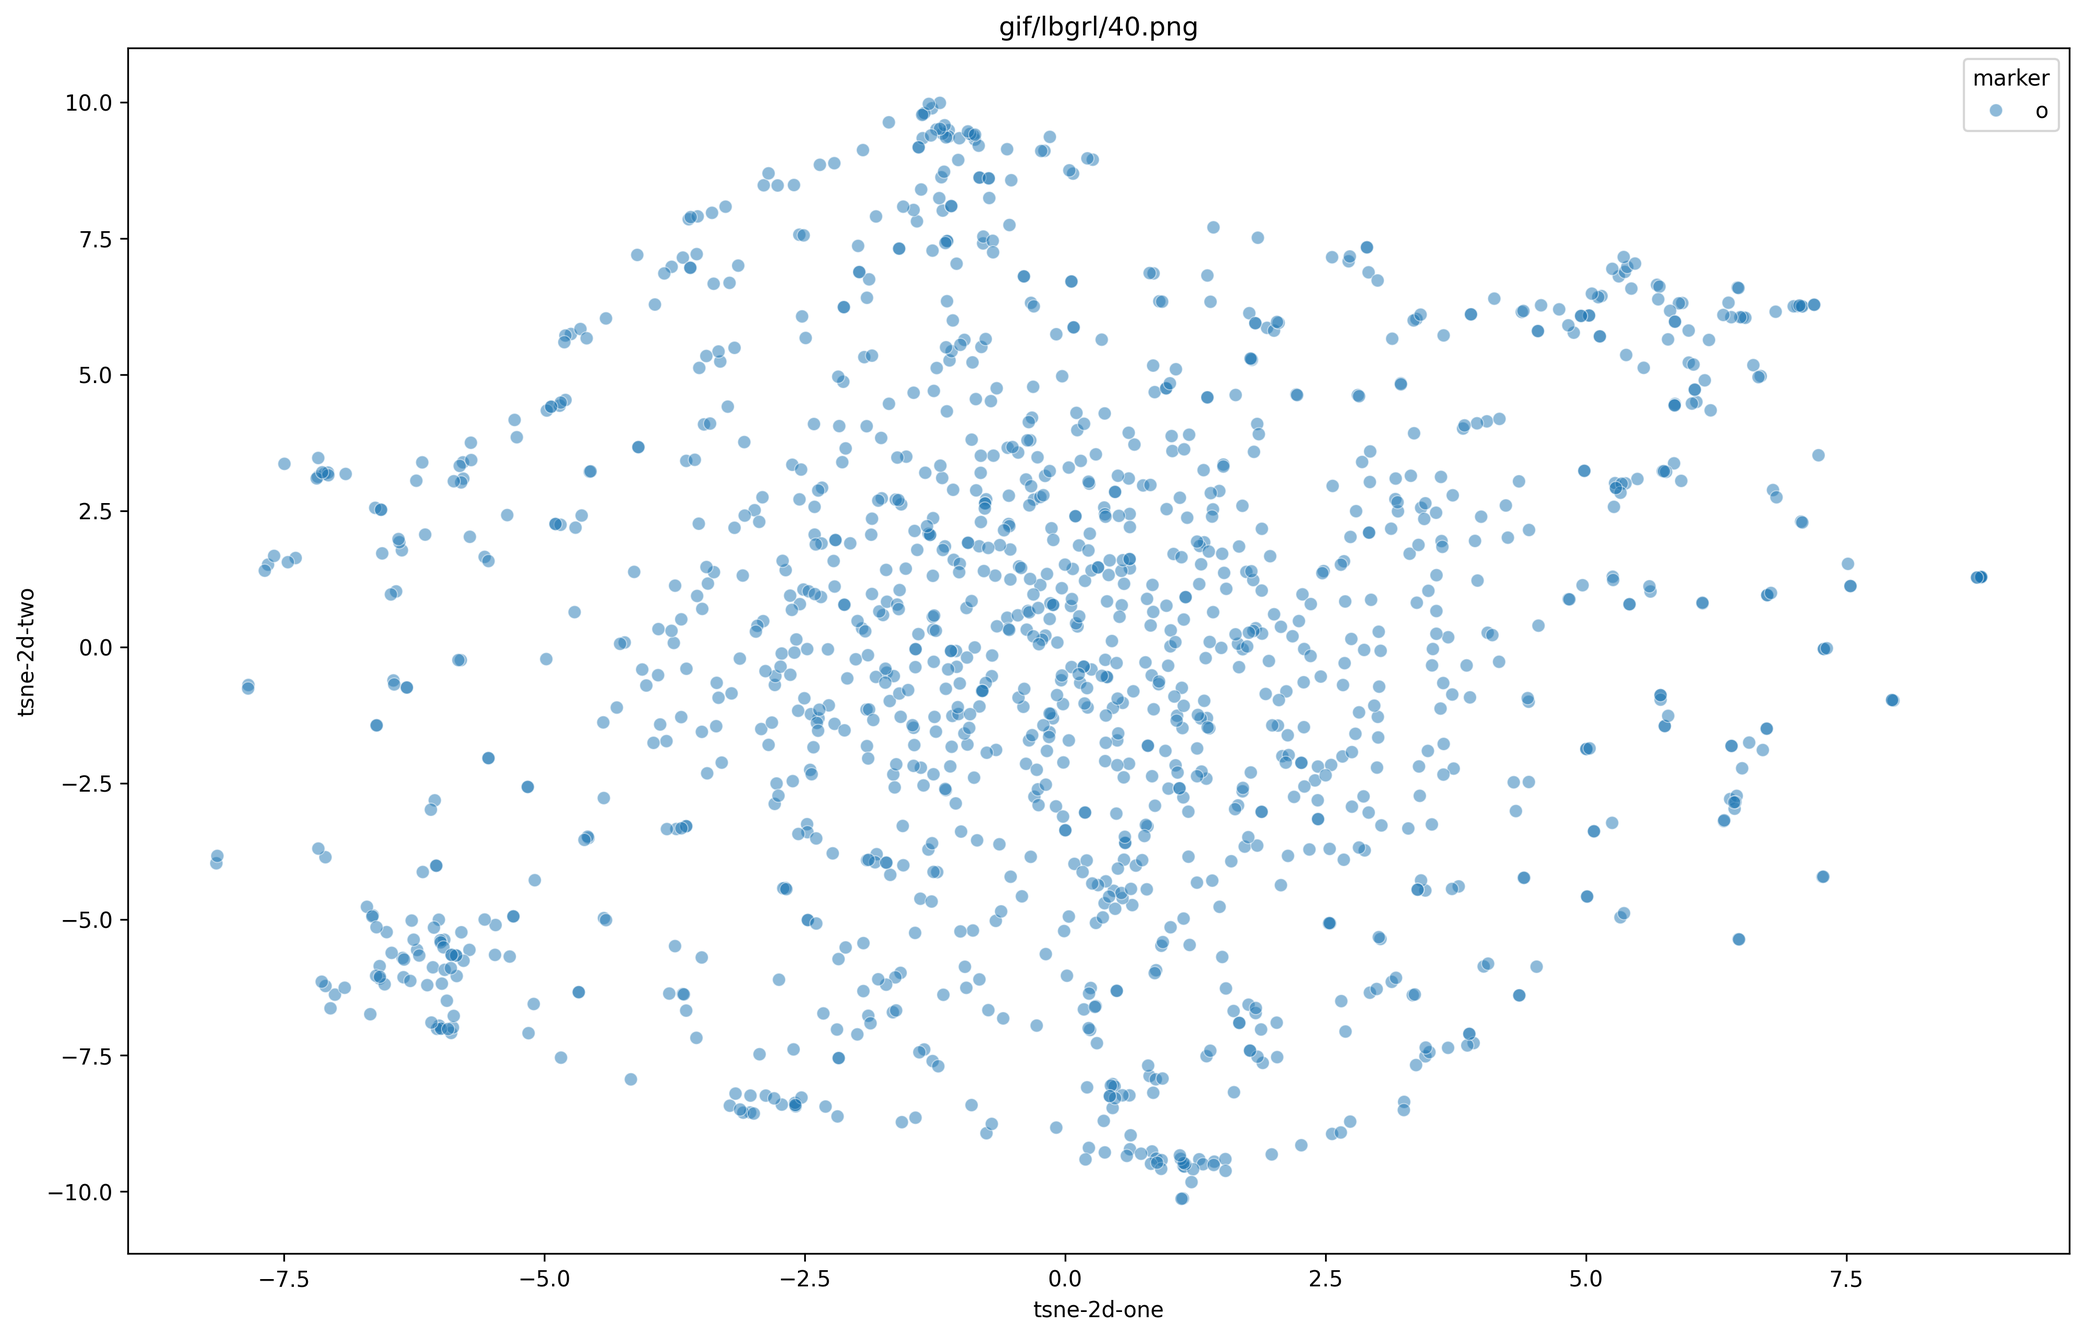
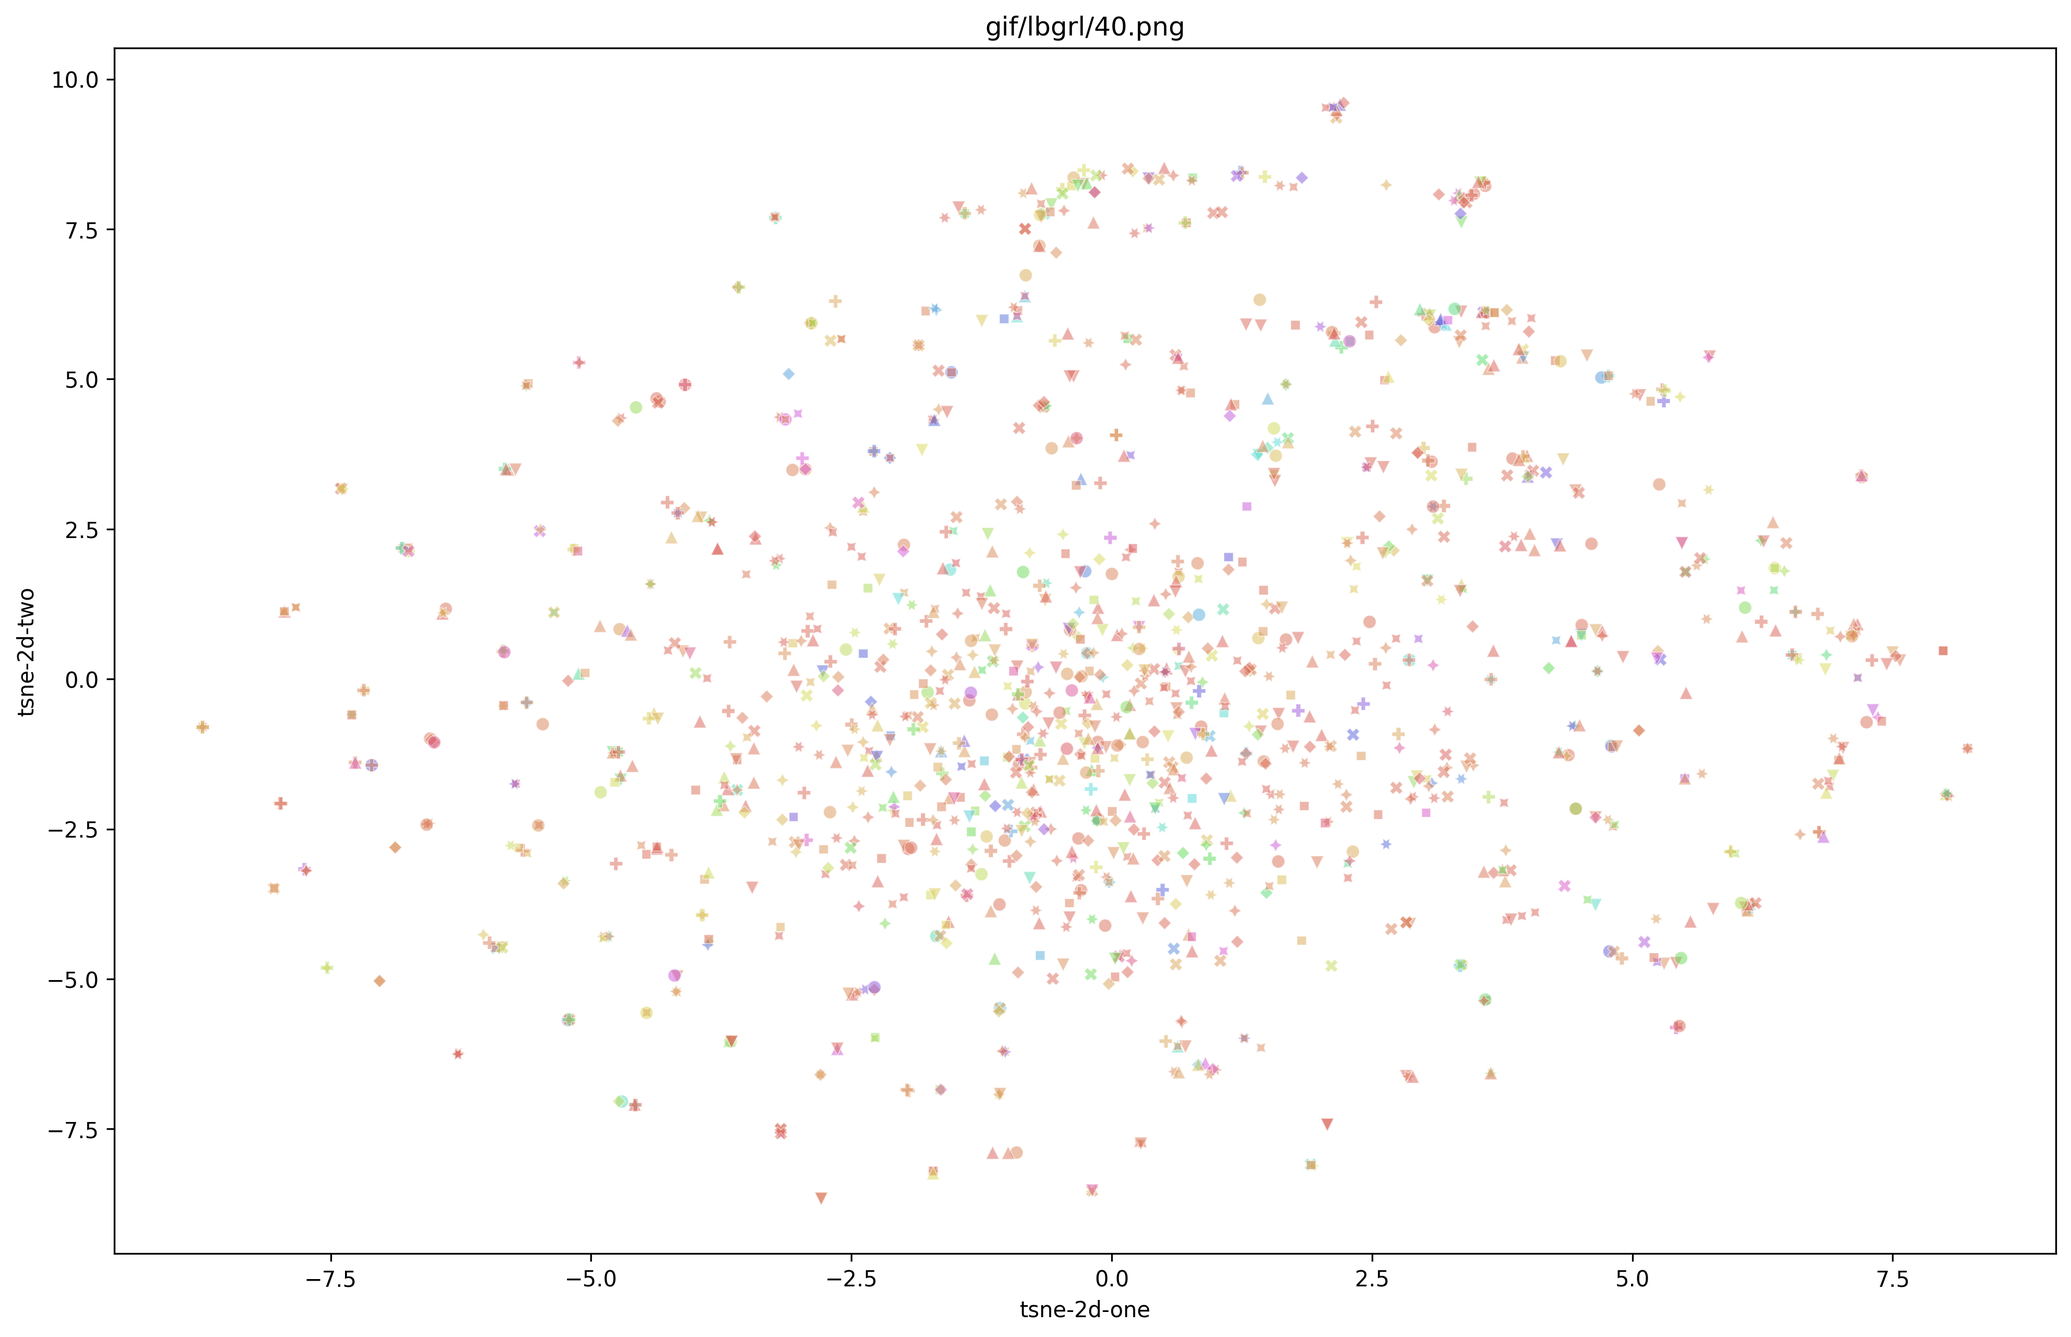
up

diff --git a/New/src/ctrain.py b/New/src/ctrain.py
@@ -1,15 +1,13 @@
 import time
 from tqdm import tqdm
 import torch
-from torch_geometric.utils import negative_sampling, to_networkx, degree, to_edge_index, to_dense_adj, add_self_loops, remove_self_loops
+from torch_geometric.utils import negative_sampling, to_networkx
 from torch_geometric.data import Data
-from torch_sparse import SparseTensor
-from torch.utils.tensorboard import SummaryWriter
 import torch_sparse as spar
-import numpy as np
 import networkx as nx
-from src.utils import CosineDecayScheduler, visu_tsne
-from src.utils import get_commu_strength
+from torch.utils.tensorboard import SummaryWriter
+import numpy as np
+from src.utils import CosineDecayScheduler, get_commu_strength, commu_repartition, visu_tsne
 
 writer = SummaryWriter()
 ### CONTRASTIVE FRAMEWORK ###
@@ -17,18 +15,18 @@ writer = SummaryWriter()
 def pretrain(model_name, model, aug, param):
     switch = {"grace": pretrain_grace,
               "lgrace": pretrain_lgrace,
-              "agrace": pretrain_agrace,
-              "ândgrace":pretrain_and_grace,
-              "âorgrace": pretrain_aor_grace,
-              "extagrace": pretrain_extend_agrace,
-              "a2grace": pretrain_a2grace,
               "csgcl": pretrain_csgcl,
               "bgrl": pretrain_bgrl,
               "lbgrl": pretrain_lbgrl,
-              "abgrl": pretrain_abgrl,
-              "âorbgrl": pretrain_or_bgrl,
-              "extabgrl": pretrain_extend_abgrl,
-              "a2bgrl": pretrain_a2bgrl,
+            #   "agrace": pretrain_agrace,
+            #   "ândgrace":pretrain_and_grace,
+            #   "âorgrace": pretrain_aor_grace,
+            #   "extagrace": pretrain_extend_agrace,
+            #   "a2grace": pretrain_a2grace,
+            #   "abgrl": pretrain_abgrl,
+            #   "âorbgrl": pretrain_or_bgrl,
+            #   "extabgrl": pretrain_extend_abgrl,
+            #   "a2bgrl": pretrain_a2bgrl,
               }
     return switch[model_name](model, aug, param)
 
@@ -54,18 +52,23 @@ def pretrain_grace(model, aug, param):
         if epoch % 100 == 0:
             loss_res.append(round(float(loss), 2))
         # valid part
-        # with torch.no_grad():
-        #     model.eval()
-        #     aug.eval()
-        #     x_1, edge_index_1, x_2, edge_index_2 = aug()
-        #     z1 = model(x_1, edge_index_1)
-        #     z2 = model(x_2, edge_index_2)
-        #     h = model(aug.data.x, aug.data.edge_index)
-        #     val_loss = model.loss(z1, z2)
-        # writer.add_scalars("grace", {'train':loss, 'val': val_loss}, epoch)
+        with torch.no_grad():
+            model.eval()
+            aug.eval()
+            x_1, edge_index_1, x_2, edge_index_2 = aug()
+            z1 = model(x_1, edge_index_1)
+            z2 = model(x_2, edge_index_2)
+            h = model(aug.data.x, aug.data.edge_index)
+            val_loss = model.loss(z1, z2)
+        writer.add_scalars("grace", {'train':loss, 'val': val_loss}, epoch)
 
-    #     name = f'gif/grace/{epoch}.png'
-    #     visu_tsne(h, name=name)
+        # if epoch % 10 == 0:
+        #     name = f'gif/grace/{epoch}.png'
+        #     if not hasattr(aug.data, 'communities'):
+        #         data = commu_repartition(aug.data, 'louvain')
+        #     else:
+        #         data = aug.data
+        #     visu_tsne(h, partition=data.communities, name=name)
     print('pretrain loss: ', loss_res)
     pre_time = time.time()-t1
     print(f"pretrain time: {pre_time:.2f} s")
@@ -107,35 +110,40 @@ def pretrain_lgrace(model, aug, param):
         loss.backward()
         optimizer.step()
         total_loss.append(loss)
-        if epoch % 10 == 0:
+        if epoch % 100 == 0:
             _loss = np.average([_.item() for _ in total_loss])
             loss_res.append(round(float(_loss), 2))
         
         # valid part
-        # with torch.no_grad():
-        #     model.eval()
-        #     aug.eval()
-        #     x_1, edge_index_1, x_2, edge_index_2 = aug()
-        #     edge_index_1 = edge_index_1.T
-        #     edge_index_2 = edge_index_2.T
-        #     eq = torch.eq(edge_index_1[:, None], edge_index_2[None, :]).all(dim=2)
-        #     intersection_idx = torch.nonzero(eq)
-        #     and_edge_index = edge_index_1[intersection_idx[:, 0]].T
-        #     or_edge_index = torch.unique(torch.cat((edge_index_1, edge_index_2)), dim=0).T
-        #     edge_index_1 = edge_index_1.T
-        #     edge_index_2 = edge_index_2.T
-        #     if and_edge_index.size(1) == 0:
-        #         nb_jump += 1
-        #         continue
-        #     neg_edge = negative_sampling(or_edge_index, num_neg_samples=and_edge_index.size(1))
-        #     h1 = model(x_1, edge_index_1).to(aug.device)
-        #     h2 = model(x_2, edge_index_2).to(aug.device)
-        #     h = model(aug.data.x, aug.data.edge_index)
-        #     val_loss = model.loss(h1, h2, and_edge_index, neg_edge)
-        # writer.add_scalars("lgrace", {'train':loss, 'val': val_loss}, epoch)
-        
-    #     name = f'gif/lgrace/{epoch}.png'
-    #     visu_tsne(h, name=name)
+        with torch.no_grad():
+            model.eval()
+            aug.eval()
+            x_1, edge_index_1, x_2, edge_index_2 = aug()
+            edge_index_1 = edge_index_1.T
+            edge_index_2 = edge_index_2.T
+            eq = torch.eq(edge_index_1[:, None], edge_index_2[None, :]).all(dim=2)
+            intersection_idx = torch.nonzero(eq)
+            and_edge_index = edge_index_1[intersection_idx[:, 0]].T
+            or_edge_index = torch.unique(torch.cat((edge_index_1, edge_index_2)), dim=0).T
+            edge_index_1 = edge_index_1.T
+            edge_index_2 = edge_index_2.T
+            if and_edge_index.size(1) == 0:
+                nb_jump += 1
+                continue
+            neg_edge = negative_sampling(or_edge_index, num_neg_samples=and_edge_index.size(1))
+            h1 = model(x_1, edge_index_1).to(aug.device)
+            h2 = model(x_2, edge_index_2).to(aug.device)
+            h = model(aug.data.x, aug.data.edge_index)
+            val_loss = model.loss(h1, h2, and_edge_index, neg_edge)
+        writer.add_scalars("lgrace", {'train':loss, 'val': val_loss}, epoch)
+
+        # if epoch % 10 == 0:
+        #     name = f'gif/lgrace/{epoch}.png'
+        #     if not hasattr(aug.data, 'communities'):
+        #         data = commu_repartition(aug.data, 'louvain')
+        #     else:
+        #         data = aug.data
+        #     visu_tsne(h, partition=data.communities, name=name)
     print('real epochs: ', param['ct_epochs']-nb_jump)
     print('pretrain loss: ', loss_res)
     pre_time = time.time()-t1
@@ -203,19 +211,24 @@ def pretrain_bgrl(model, aug, param):
         if epoch % 100 == 0:
             loss_res.append(round(float(loss), 2))
         # valid part
-        # with torch.no_grad():
-        #     model.eval()
-        #     aug.eval()
-        #     x_1, edge_index_1, x_2, edge_index_2 = aug()
-        #     z1, y2 = model.train_forward((x_1, edge_index_1), (x_2, edge_index_2))
-        #     z2, y1 = model.train_forward((x_2, edge_index_2), (x_1, edge_index_1))
+        with torch.no_grad():
+            model.eval()
+            aug.eval()
+            x_1, edge_index_1, x_2, edge_index_2 = aug()
+            z1, y2 = model.train_forward((x_1, edge_index_1), (x_2, edge_index_2))
+            z2, y1 = model.train_forward((x_2, edge_index_2), (x_1, edge_index_1))
 
-        #     h = model(aug.data.x, aug.data.edge_index)
-        #     val_loss = model.loss(z1, z2, y1, y2)
-        # writer.add_scalars("bgrl", {'train':loss, 'val': val_loss}, epoch)
-                
-    #     name = f'gif/bgrl/{epoch}.png'
-    #     visu_tsne(h, name=name)
+            h = model(aug.data.x, aug.data.edge_index)
+            val_loss = model.loss(z1, z2, y1, y2)
+        writer.add_scalars("bgrl", {'train':loss, 'val': val_loss}, epoch)
+
+        # if epoch % 10 == 0:         
+        #     name = f'gif/bgrl/{epoch}.png'
+        #     if not hasattr(aug.data, 'communities'):
+        #         data = commu_repartition(aug.data, 'louvain')
+        #     else:
+        #         data = aug.data
+        #     visu_tsne(h, partition=data.communities, name=name)
     print('pretrain loss: ', loss_res, ' s')
     pre_time = time.time()-t1
     print(f"pretrain time: {pre_time:.2f} s")
@@ -266,29 +279,36 @@ def pretrain_lbgrl(model, aug, param):
         if epoch % 100 == 0:
             loss_res.append(round(float(loss), 2))
         # valid part
-        # with torch.no_grad():
-        #     model.eval()
-        #     aug.eval()
-        #     x_1, edge_index_1, x_2, edge_index_2 = aug()
-        #     edge_index_1 = edge_index_1.T
-        #     edge_index_2 = edge_index_2.T
-        #     eq = torch.eq(edge_index_1[:, None], edge_index_2[None, :]).all(dim=2)
-        #     intersection_idx = torch.nonzero(eq)
-        #     and_edge_index = edge_index_1[intersection_idx[:, 0]].T
-        #     edge_index_1 = edge_index_1.T
-        #     edge_index_2 = edge_index_2.T
-        #     if and_edge_index.size(1) == 0:
-        #         nb_jump += 1
-        #         continue
-        #     z1, y2 = model.train_forward((x_1, edge_index_1), (x_2, edge_index_2), and_edge_index)
-        #     z2, y1 = model.train_forward((x_2, edge_index_2), (x_1, edge_index_1), and_edge_index)
+        with torch.no_grad():
+            model.eval()
+            aug.eval()
+            x_1, edge_index_1, x_2, edge_index_2 = aug()
+            edge_index_1 = edge_index_1.T
+            edge_index_2 = edge_index_2.T
+            eq = torch.eq(edge_index_1[:, None], edge_index_2[None, :]).all(dim=2)
+            intersection_idx = torch.nonzero(eq)
+            and_edge_index = edge_index_1[intersection_idx[:, 0]].T
+            edge_index_1 = edge_index_1.T
+            edge_index_2 = edge_index_2.T
+            if and_edge_index.size(1) == 0:
+                nb_jump += 1
+                continue
+            z1, y2 = model.train_forward((x_1, edge_index_1), (x_2, edge_index_2), and_edge_index)
+            z2, y1 = model.train_forward((x_2, edge_index_2), (x_1, edge_index_1), and_edge_index)
 
-        #     h = model(aug.data.x, aug.data.edge_index)
-        #     val_loss = model.loss(z1, z2, y1, y2)
-        # writer.add_scalars("lbgrl", {'train':loss, 'val': val_loss}, epoch)
-                
-    #     name = f'gif/lbgrl/{epoch}.png'
-    #     visu_tsne(h, name=name)
+            h = model(aug.data.x, aug.data.edge_index)
+            val_loss = model.loss(z1, z2, y1, y2)
+        writer.add_scalars("lbgrl", {'train':loss, 'val': val_loss}, epoch)
+
+        # print('before visu')
+        # if epoch % 10 == 0:
+        #     print('visu')
+        #     name = f'gif/lbgrl/{epoch}.png'
+        #     if not hasattr(aug.data, 'communities'):
+        #         data = commu_repartition(aug.data, 'louvain')
+        #     else:
+        #         data = aug.data
+        #     visu_tsne(h, partition=data.communities, name=name)
     print('real epochs: ', param['ct_epochs']-nb_jump)
     print('pretrain loss: ', loss_res, ' s')
     pre_time = time.time()-t1
@@ -310,7 +330,7 @@ def pretrain_agrace(model, aug, param):
         aug.train()
         optimizer.zero_grad()
         x_1, edge_index_1, x_2, edge_index_2 = aug()
-        adj_t = SparseTensor.from_edge_index(edge_index_1, sparse_sizes=(aug.data.num_nodes, aug.data.num_nodes))
+        adj_t = spar.SparseTensor.from_edge_index(edge_index_1, sparse_sizes=(aug.data.num_nodes, aug.data.num_nodes))
         adj_t = adj_t.to_symmetric().coalesce()
         A_hat = adj_t.to_dense()+torch.eye(aug.data.x.shape[0]).to(aug.device)
         z1 = model(x_1, edge_index_1)
@@ -341,8 +361,8 @@ def pretrain_aor_grace(model, aug, param):
         aug.train()
         optimizer.zero_grad()
         x_1, edge_index_1, x_2, edge_index_2 = aug()
-        adj_1 = SparseTensor.from_edge_index(edge_index_1, sparse_sizes=(aug.data.num_nodes, aug.data.num_nodes)).to_torch_sparse_coo_tensor().coalesce()
-        adj_2 = SparseTensor.from_edge_index(edge_index_2, sparse_sizes=(aug.data.num_nodes, aug.data.num_nodes)).to_torch_sparse_coo_tensor().coalesce()
+        adj_1 = spar.SparseTensor.from_edge_index(edge_index_1, sparse_sizes=(aug.data.num_nodes, aug.data.num_nodes)).to_torch_sparse_coo_tensor().coalesce()
+        adj_2 = spar.SparseTensor.from_edge_index(edge_index_2, sparse_sizes=(aug.data.num_nodes, aug.data.num_nodes)).to_torch_sparse_coo_tensor().coalesce()
         hat_indices, hat_values = spar.eye(aug.data.x.shape[0])
         A_indices = torch.cat([adj_1.indices(), adj_2.indices(), hat_indices.to(aug.device)], dim=-1)
         A_value = torch.cat([adj_1.values(), adj_2.values(), hat_values.to(aug.device)])
@@ -375,9 +395,9 @@ def pretrain_and_grace(model, aug, param):
         aug.train()
         optimizer.zero_grad()
         x_1, edge_index_1, x_2, edge_index_2 = aug()
-        adj_1 = SparseTensor.from_edge_index(edge_index_1, sparse_sizes=(aug.data.num_nodes, aug.data.num_nodes))
+        adj_1 = spar.SparseTensor.from_edge_index(edge_index_1, sparse_sizes=(aug.data.num_nodes, aug.data.num_nodes))
         adj_1 = adj_1.to_symmetric().coalesce().to_torch_sparse_csr_tensor()
-        adj_2 = SparseTensor.from_edge_index(edge_index_2, sparse_sizes=(aug.data.num_nodes, aug.data.num_nodes))
+        adj_2 = spar.SparseTensor.from_edge_index(edge_index_2, sparse_sizes=(aug.data.num_nodes, aug.data.num_nodes))
         adj_2 = adj_2.to_symmetric().coalesce().to_torch_sparse_csr_tensor()
         hat = torch.eye(aug.data.x.shape[0]).to_sparse().to(aug.device)
         A_hat = torch.sparse.mm(adj_1, adj_2)+hat
@@ -447,11 +467,11 @@ def pretrain_a2grace(model, aug, param):
         aug.train()
         optimizer.zero_grad()
         x_1, edge_index_1, x_2, edge_index_2 = aug()
-        adj_t = SparseTensor.from_edge_index(edge_index_1, sparse_sizes=(aug.data.num_nodes, aug.data.num_nodes))
+        adj_t = spar.SparseTensor.from_edge_index(edge_index_1, sparse_sizes=(aug.data.num_nodes, aug.data.num_nodes))
         adj_t = adj_t.to_symmetric().coalesce()
         A_hat_1 = adj_t.to_dense()+torch.eye(aug.data.x.shape[0]).to(aug.device)
 
-        adj_t = SparseTensor.from_edge_index(edge_index_2, sparse_sizes=(aug.data.num_nodes, aug.data.num_nodes))
+        adj_t = spar.SparseTensor.from_edge_index(edge_index_2, sparse_sizes=(aug.data.num_nodes, aug.data.num_nodes))
         adj_t = adj_t.to_symmetric().coalesce()
         A_hat_2 = adj_t.to_dense()+torch.eye(aug.data.x.shape[0]).to(aug.device)
 
@@ -489,7 +509,7 @@ def pretrain_abgrl(model, aug, param):
 
         optimizer.zero_grad()
         x_1, edge_index_1, x_2, edge_index_2 = aug()
-        adj_t = SparseTensor.from_edge_index(edge_index_1, sparse_sizes=(aug.data.num_nodes, aug.data.num_nodes))
+        adj_t = spar.SparseTensor.from_edge_index(edge_index_1, sparse_sizes=(aug.data.num_nodes, aug.data.num_nodes))
         adj_t = adj_t.to_symmetric().coalesce()
         A_hat = adj_t.to_dense()+torch.eye(aug.data.x.shape[0]).to(aug.device)
 
@@ -529,8 +549,8 @@ def pretrain_or_bgrl(model, aug, param):
 
         optimizer.zero_grad()
         x_1, edge_index_1, x_2, edge_index_2 = aug()
-        adj_1 = SparseTensor.from_edge_index(edge_index_1, sparse_sizes=(aug.data.num_nodes, aug.data.num_nodes)).to_torch_sparse_coo_tensor().coalesce()
-        adj_2 = SparseTensor.from_edge_index(edge_index_2, sparse_sizes=(aug.data.num_nodes, aug.data.num_nodes)).to_torch_sparse_coo_tensor().coalesce()
+        adj_1 = spar.SparseTensor.from_edge_index(edge_index_1, sparse_sizes=(aug.data.num_nodes, aug.data.num_nodes)).to_torch_sparse_coo_tensor().coalesce()
+        adj_2 = spar.SparseTensor.from_edge_index(edge_index_2, sparse_sizes=(aug.data.num_nodes, aug.data.num_nodes)).to_torch_sparse_coo_tensor().coalesce()
         hat_indices, hat_values = spar.eye(aug.data.x.shape[0])
         A_indices = torch.cat([adj_1.indices(), adj_2.indices(), hat_indices.to(aug.device)], dim=-1)
         A_value = torch.cat([adj_1.values(), adj_2.values(), hat_values.to(aug.device)])
@@ -619,11 +639,11 @@ def pretrain_a2bgrl(model, aug, param):
 
         optimizer.zero_grad()
         x_1, edge_index_1, x_2, edge_index_2 = aug()
-        adj_t = SparseTensor.from_edge_index(edge_index_1, sparse_sizes=(aug.data.num_nodes, aug.data.num_nodes))
+        adj_t = spar.SparseTensor.from_edge_index(edge_index_1, sparse_sizes=(aug.data.num_nodes, aug.data.num_nodes))
         adj_t = adj_t.to_symmetric().coalesce()
         A_hat_1 = adj_t.to_dense()+torch.eye(aug.data.x.shape[0]).to(aug.device)
 
-        adj_t = SparseTensor.from_edge_index(edge_index_2, sparse_sizes=(aug.data.num_nodes, aug.data.num_nodes))
+        adj_t = spar.SparseTensor.from_edge_index(edge_index_2, sparse_sizes=(aug.data.num_nodes, aug.data.num_nodes))
         adj_t = adj_t.to_symmetric().coalesce()
         A_hat_2 = adj_t.to_dense()+torch.eye(aug.data.x.shape[0]).to(aug.device)
 

diff --git a/New/src/utils.py b/New/src/utils.py
@@ -53,6 +53,7 @@ def commu_repartition(data, cd_algo: str = None):
                 probs[x,y] /= ((sizes[x]+sizes[y])*(sizes[x]+sizes[y]-1))/2 #complete graph formula
     probs /= 2 # undirected graph
     data.block = block
+    data.communities = communities
     data.probs = probs
     print("probs, ", probs)
     data.sizes = sizes
@@ -187,7 +188,7 @@ def visu_tsne(h, partition=None, name=None): # TODO color by groups
         style="marker",
         palette=sns.color_palette("hls", len(partition)),
         data=df,
-        legend="full",
+        legend=False,
         alpha=0.5,
         ax=ax
     )
